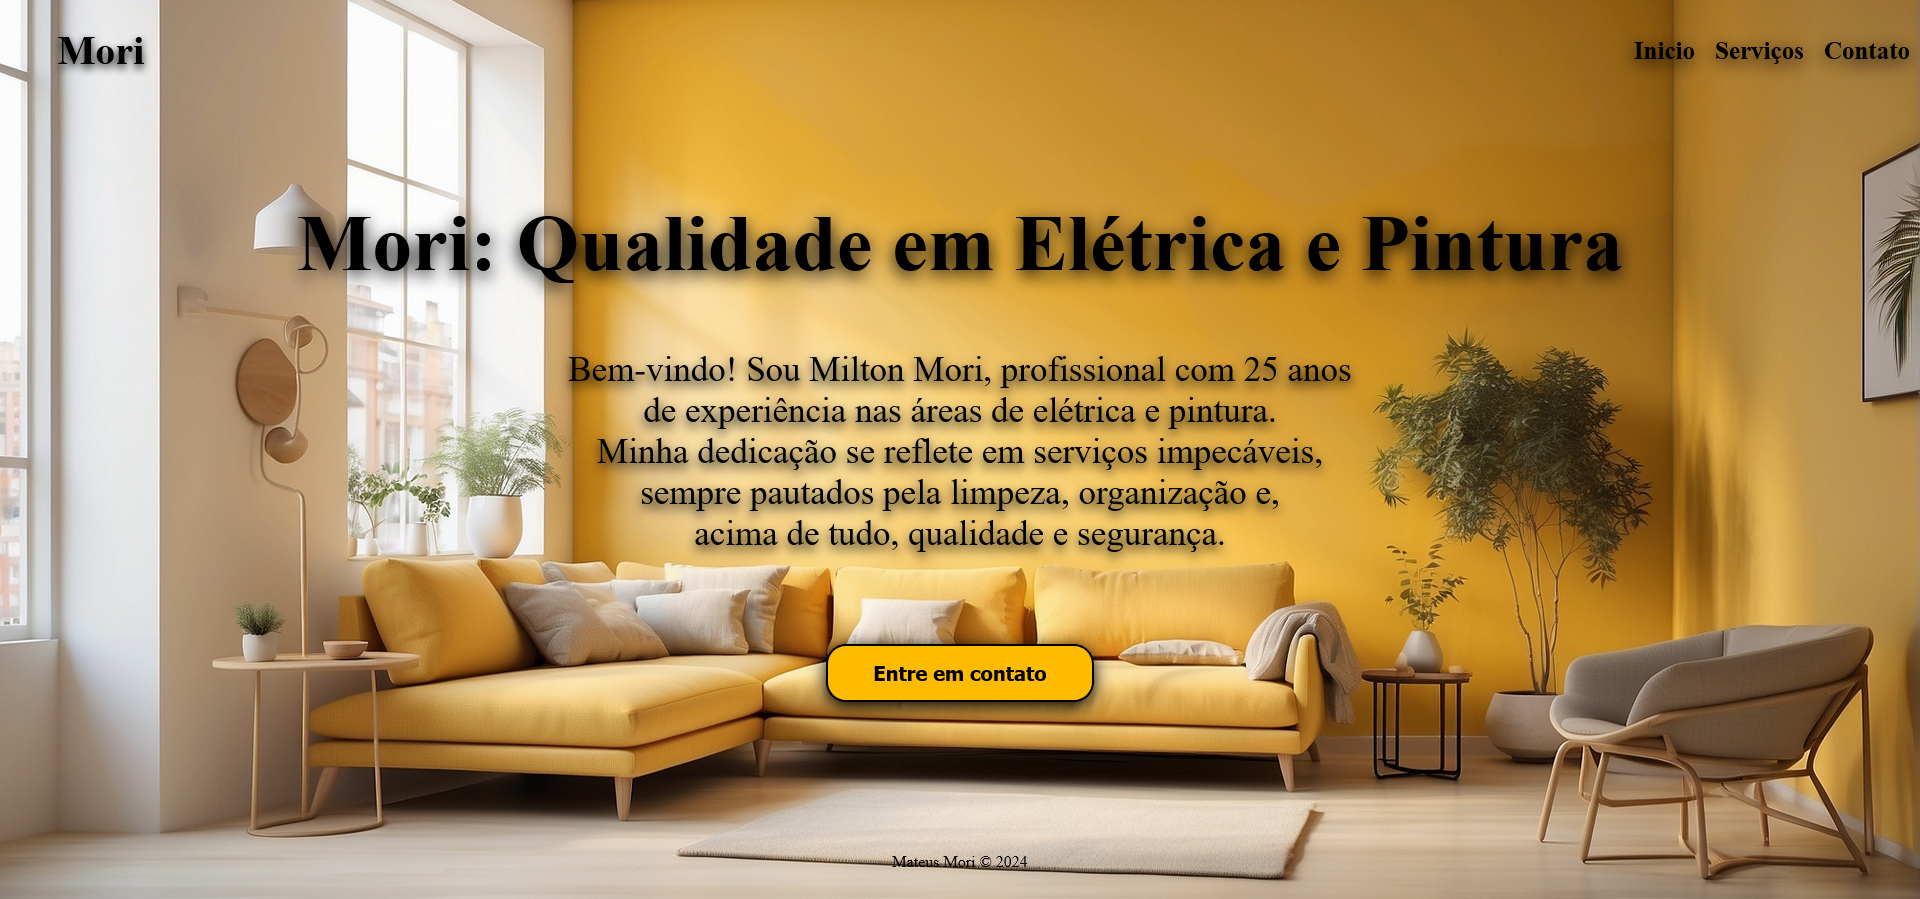
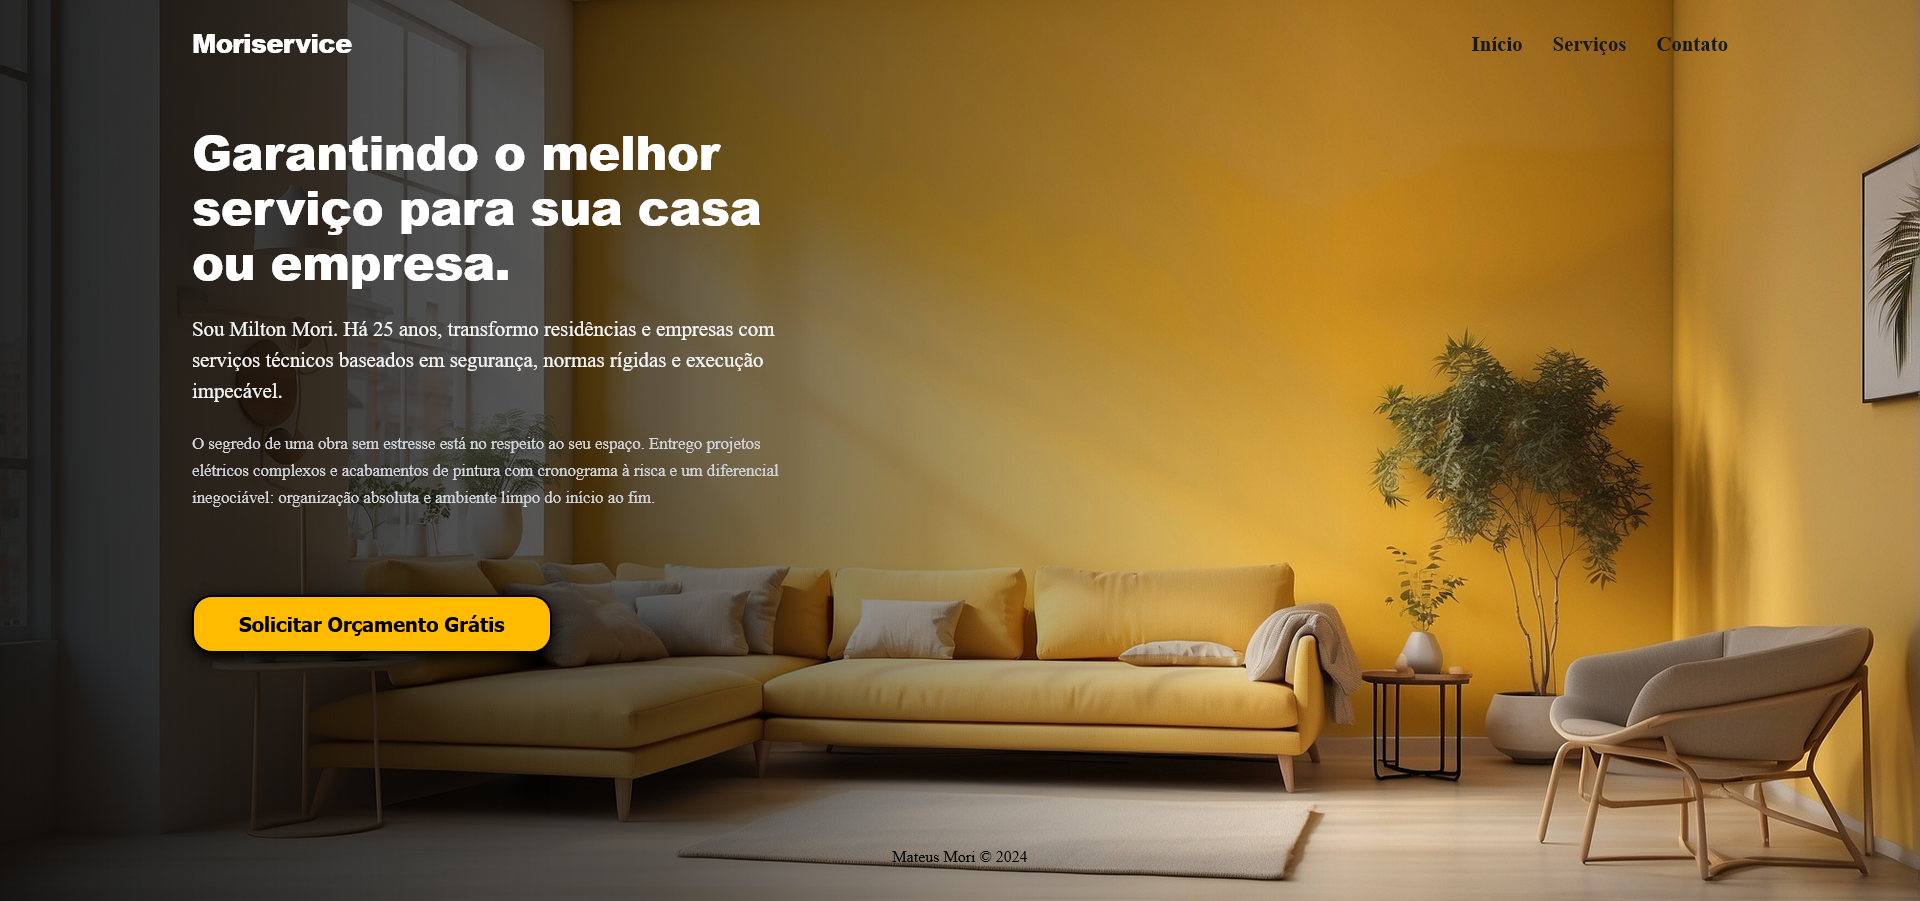
Finalizando o projeto, ajustes finais e correção de bugs.

diff --git a/src/views/Navbar/Navbar.module.scss b/src/views/Navbar/Navbar.module.scss
@@ -2,7 +2,7 @@
   display: flex;
   justify-content: right; 
   align-items: center;
-  padding: 25px ; 
+  padding: 25px 10%; 
   position: absolute; 
   top: 0;
   left: 0;
@@ -10,29 +10,28 @@
   box-sizing: border-box;
   z-index: 10;
 
-
   ul {
     display: flex;
     align-items: center;
     list-style: none;
     margin: 0;
     padding: 0;
-    gap: 30px; 
+    gap: 30px;
   }
 
   li {
-    font-size: 1.5rem; 
+    font-size: 1.6rem; 
     font-weight: 600;
 
     a {
-      color: #1a1a1a; 
+      color: #1a1a1a;
       text-decoration: none;
       position: relative;
       display: inline-block;
       transition: color 0.2s ease;
 
       &::after {
-        content: '';
+        content: "";
         display: block;
         width: 100%;
         height: 2px;
@@ -41,12 +40,13 @@
         bottom: -4px;
         left: 0;
         transform: scaleX(0);
-        transition: transform 0.2s ease;
+        transform-origin: center;
+        transition: transform 0.25s ease;
       }
 
       &:hover {
         color: #000000;
-        
+
         &::after {
           transform: scaleX(1);
         }
@@ -58,14 +58,25 @@
 @media screen and (max-width: 745px) {
   .navbar {
     flex-direction: column;
+    justify-content: center;
     gap: 15px;
     padding: 20px 5%;
-    
+    backdrop-filter: blur(5px); 
+    position: relative; 
+
+    ul {
+      gap: 20px;
+    }
+
     ul li a {
       color: #ffffff;
-      
+
       &::after {
         background-color: #ffffff;
+      }
+
+      &:hover {
+        color: #e5e5e5;
       }
     }
   }

diff --git a/src/views/serviços/Servicos.jsx b/src/views/serviços/Servicos.jsx
@@ -2,6 +2,7 @@ import styles from "./Servicos.module.scss";
 import Card from "../../Components/Card";
 import Navbar from "../Navbar/Navbar";
 import Footer from "../Footer/Footer";
+import ButtonA from "../../Components/ButtonA"; 
 
 function Servicos() {
   return (
@@ -24,7 +25,6 @@ function Servicos() {
                 Projetos executados rigorosamente dentro da norma NBR 5410 para total segurança residencial e comercial.
               </p>
             }
-            link="/contactForm" // Apontando para o seu formulário interno
           />
 
           <Card
@@ -36,7 +36,14 @@ function Servicos() {
                 tintas premium. Foco milimétrico no alinhamento visual, durabilidade e proteção contra umidade.
               </p>
             }
-            link="/contactForm"
+          />
+        </div>
+
+        {/* Inserido o link público do Drive aqui */}
+        <div className={styles.centerButtonWrapper}>
+          <ButtonA 
+            link="https://drive.google.com/drive/folders/1YHgV6lfL82HQg1VXyZE0PbnojtagIB9P?usp=sharing" 
+            text="Veja Fotos dos Projetos" 
           />
         </div>
       </main>

diff --git a/src/Components/Card.jsx b/src/Components/Card.jsx
@@ -1,14 +1,12 @@
-import ButtonA from './ButtonA';
 import styles from './Card.module.css';
 
-function Card({ title, description, link }) {
+function Card({ title, description }) {
     return (
         <div className={styles.card}>
             <section>
                 <h3>{title}</h3>
                 <p>{description}</p>
             </section>
-            <ButtonA className={styles.ButtonB} href={link} text="Veja Fotos" />
         </div>
     );
 }

diff --git a/src/views/Home/Presentation.module.scss b/src/views/Home/Presentation.module.scss
@@ -48,7 +48,7 @@
 
 .description {
   font-size: 1.05rem;
-  color: #d1d5db; 
+  color: #ffffff; 
   line-height: 1.6;
   margin: 0;
 }

diff --git a/src/views/Home/Presetation.jsx b/src/views/Home/Presetation.jsx
@@ -11,6 +11,7 @@ const Presentation = () => {
       <main className={styles.mainContent}>
         <section className={styles.heroCard}>
           <h1>
+            MoriService: <br />
             Garantindo o melhor <br /> <span>serviço para </span>
             sua casa ou empresa.
           </h1>